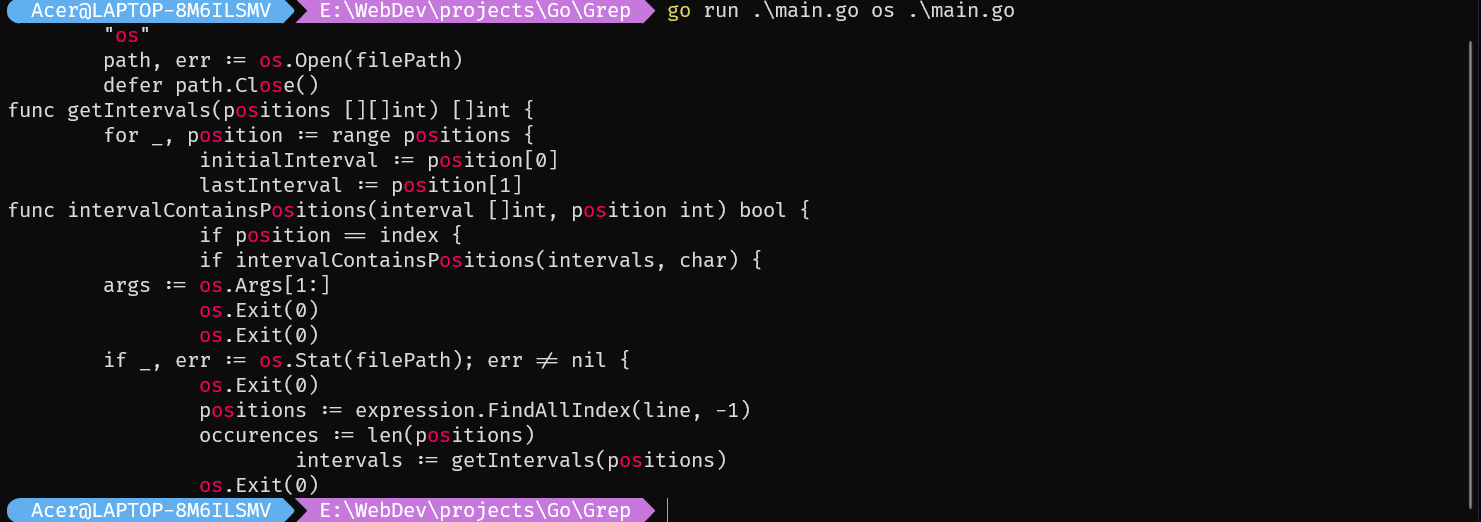
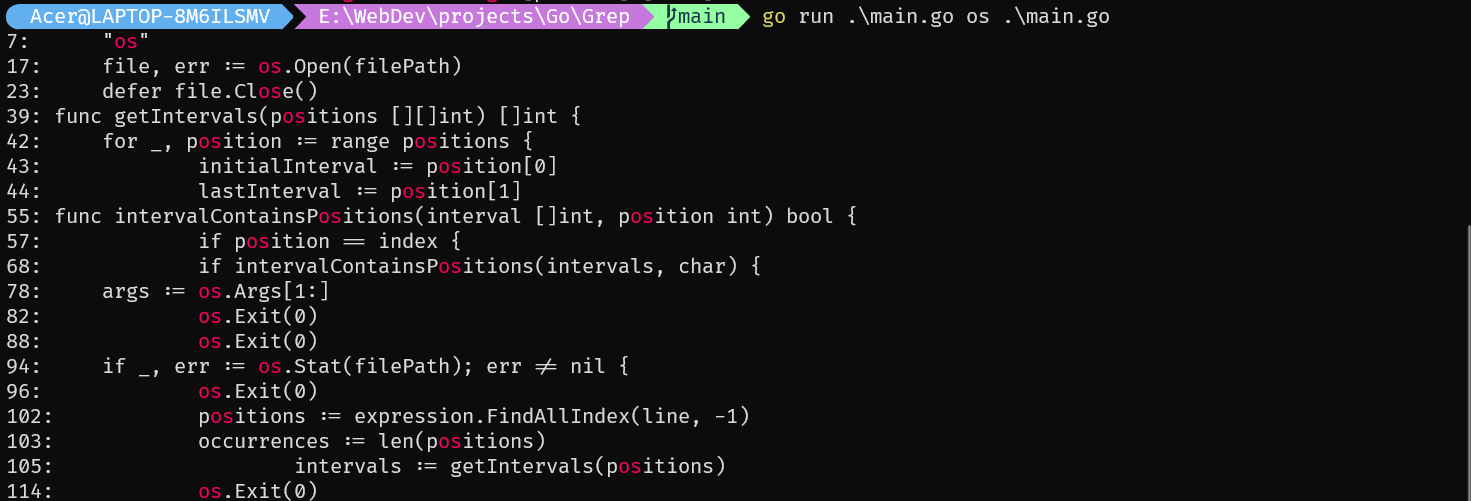
line numbers added

diff --git a/main.go b/main.go
@@ -13,23 +13,27 @@ import (
 
 const format = `FORMAT: go run main.go [pattern] [file]`
 
-func readFile(filePath string, callback func([]byte)) ([]string, error) {
-	path, err := os.Open(filePath)
-
+func readFile(filePath string, callback func(int, []byte)) error {
+	file, err := os.Open(filePath)
 	if err != nil {
 		log.Fatal(err)
-		return nil, err
+		return err
 	}
 
-	defer path.Close()
+	defer file.Close()
 
-	scanner := bufio.NewScanner(path)
-
+	scanner := bufio.NewScanner(file)
+	lineNumber := 1
 	for scanner.Scan() {
-		callback(scanner.Bytes())
+		callback(lineNumber, scanner.Bytes())
+		lineNumber++
 	}
 
-	return nil, nil
+	if err := scanner.Err(); err != nil {
+		log.Fatal(err)
+		return err
+	}
+	return nil
 }
 
 func getIntervals(positions [][]int) []int {
@@ -73,13 +77,13 @@ func applyColour(line []byte, intervals []int) string {
 func main() {
 	args := os.Args[1:]
 	if len(args) < 2 {
-		fmt.Println("Missing arguements, pattern string and target file both are required!")
+		fmt.Println("Missing arguments, both pattern string and target file are required!")
 		fmt.Println(format)
 		os.Exit(0)
 	}
 
 	if len(args) > 2 {
-		fmt.Println("Only two arguements are required!")
+		fmt.Println("Only two arguments are required!")
 		fmt.Println(format)
 		os.Exit(0)
 	}
@@ -94,18 +98,18 @@ func main() {
 
 	expression := regexp.MustCompile(pattern)
 
-	_, readLineErr := readFile(filePath, func(line []byte) {
+	err := readFile(filePath, func(lineNumber int, line []byte) {
 		positions := expression.FindAllIndex(line, -1)
-		occurences := len(positions)
-		if occurences > 0 {
+		occurrences := len(positions)
+		if occurrences > 0 {
 			intervals := getIntervals(positions)
-			highLigtedLine := applyColour(line, intervals)
-			fmt.Println(highLigtedLine)
+			highlightedLine := applyColour(line, intervals)
+			fmt.Printf("%d: %s\n", lineNumber, highlightedLine)
 		}
 	})
 
-	if readLineErr != nil {
-		log.Fatal(readLineErr)
+	if err != nil {
+		log.Fatal(err)
 		fmt.Println("Error in reading file!")
 		os.Exit(0)
 	}
